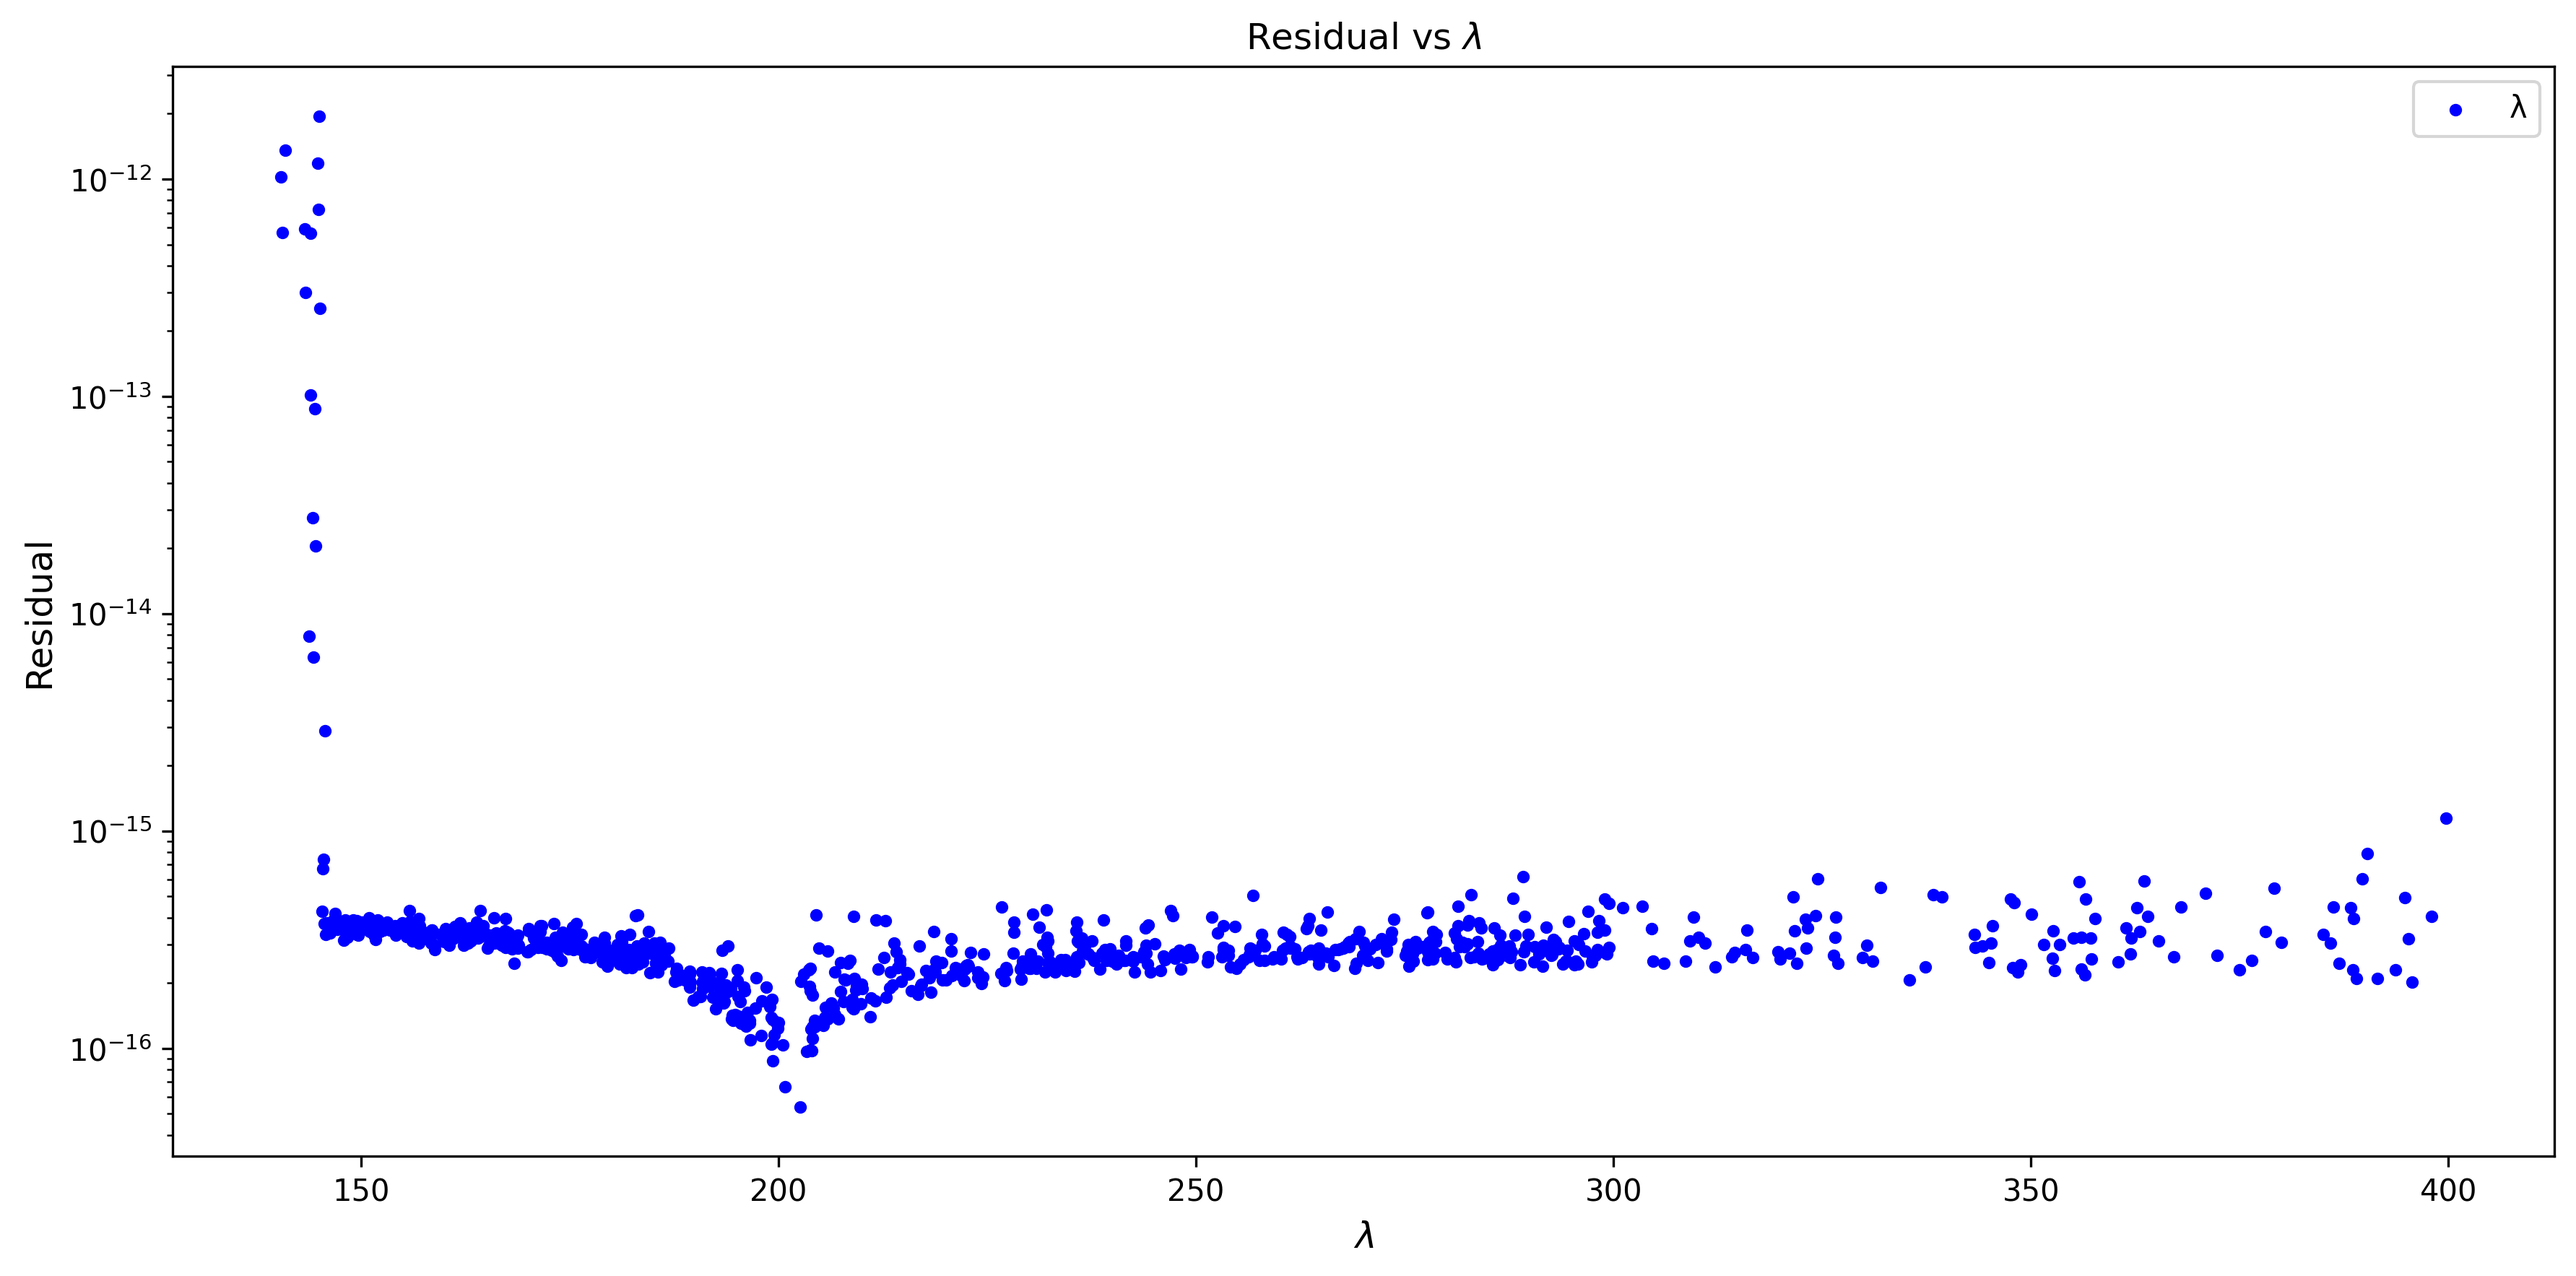
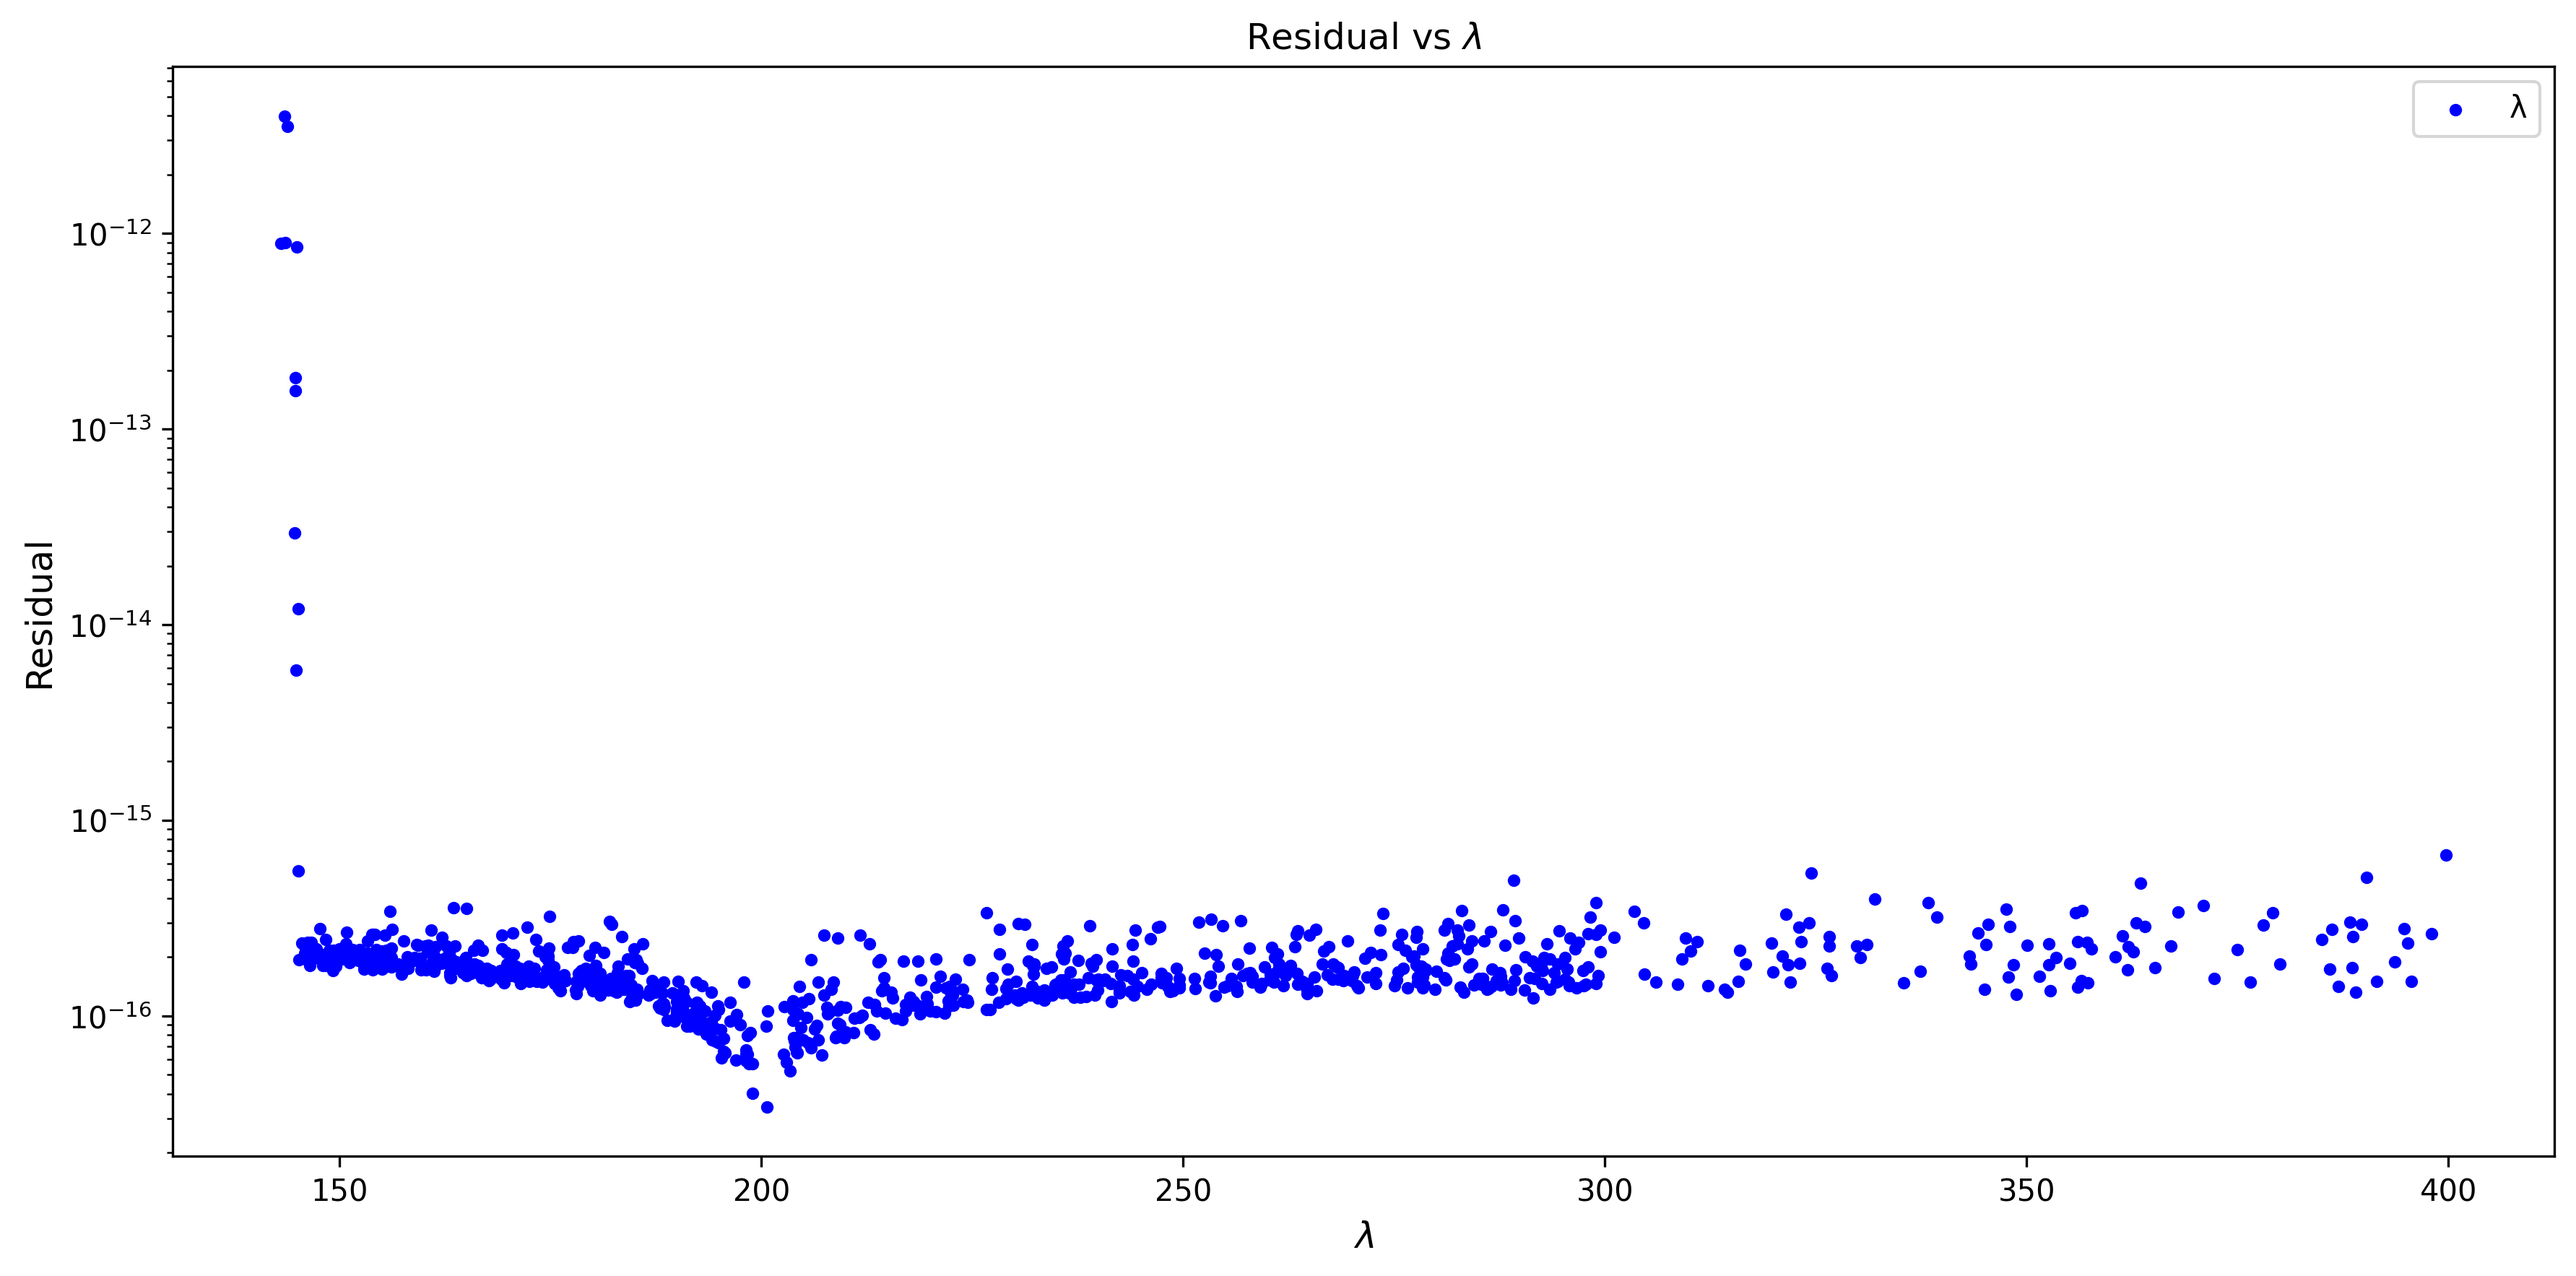
Added function to compute the best residuals

diff --git a/code/spectral_lanczos.py b/code/spectral_lanczos.py
@@ -9,7 +9,8 @@ import numpy as np
 import matplotlib.pyplot as plt
 import sys
 import numpy.linalg as la
-from scipy.linalg import lu_factor, lu_solve
+from scipy.linalg import lu_factor, lu_solve, qz, qr, eigh
+from scipy.linalg import solve, solve_triangular
 
 np.random.seed(256)
 
@@ -64,20 +65,16 @@ def spectral_lanczos(A, B, L, m, n, shift):
     q_prev = np.zeros(m)
     q_curr = b / np.linalg.norm(b)
 
-    # # Precompute the factorization of (A - shift * B)
-    # A_shift_B = A - shift * B
-    # lu = lu_factor(A_shift_B)
-
-    # spectral transformation matrix
-    C = L.T @ la.inv(A - shift*B) @ L
+    # Precompute the factorization of (A - shift * B)
+    A_shift_B = A - shift * B
+    lu = lu_factor(A_shift_B)
 
     # Perform Lanczos iterations
     for j in range(n + 1):
         Q_n[:, j] = q_curr
-        v = C @ q_curr
-        # u = L @ q_curr
-        # v = lu_solve(lu, u)
-        # v = L.T @ v
+        u = L @ q_curr
+        v = lu_solve(lu, u)
+        v = L.T @ v
         if j < n:
             # Compute and store alpha
             alpha = np.dot(q_curr, v)
@@ -112,30 +109,17 @@ def spectral_lanczos(A, B, L, m, n, shift):
     Q_n = Q_n[:, :n]
     x[n-1] = beta
 
-    return T_n, Q_n, q_curr, x, C
+    return T_n, Q_n, q_curr, x
 
-def compute_decomp_residual(A, B, L, T, Q, q, x, shift, C):
+def compute_decomp_residual(A, B, L, T, Q, q, x, shift):
     """ Compute the Lanczos decomposition residual """
-    # lu = lu_factor(A - shift*B)
-    # norm_matrix = la.norm(L.T @ lu_solve(lu, L))
-    # aq = L.T @ lu_solve(lu, L @ Q)
-    # qt = Q @ T
-    # qx = np.outer(q, x.T)
-    # decomp_res = la.norm(aq - qt - qx) / norm_matrix
-    num = la.norm(C@Q - Q@T - np.outer(q, x.T))
-    den = la.norm(C)
-    decomp_res = num/den
+    lu = lu_factor(A - shift*B)
+    norm_matrix = la.norm(L.T @ lu_solve(lu, L))
+    aq = L.T @ lu_solve(lu, L @ Q)
+    qt = Q @ T
+    qx = np.outer(q, x.T)
+    decomp_res = la.norm(aq - qt - qx) / norm_matrix
     return decomp_res
-
-def compute_eigenvalues(T, Q, L, sigma):
-    """ Compute the evalues and evectors of tridiagonal matrix T """ 
-    eigvals_Tn, eigvecs_Tn = np.linalg.eigh(T)
-    theta = eigvals_Tn
-    U = Q @ eigvecs_Tn
-    alphas = 1.0 + (theta *sigma)
-    betas = theta
-    V = la.solve(L.T, U)
-    return V, alphas, betas
 
 def compute_residuals(A, B, alphas, betas, V):
     """ Compute relative residuals for the Generalized problem """
@@ -147,8 +131,24 @@ def compute_residuals(A, B, alphas, betas, V):
             abs(betas[i]) * nrma + abs(alphas[i]) * nrmb) / la.norm(V[:,i])
     return residuals
 
-def compute_ritz_residuals(A, B, L, T, Q, shift, tol, C):
-    """ Compute relative residuals for the spectral transformation problem to obtain converged Ritz pairs based on tolerance """
+def compute_best_v_naive(A, B, alphas, betas):
+    """ Compute best residuals naive"""
+    nrmA = la.norm(A)
+    nrmB = la.norm(B)
+    res = np.zeros_like(alphas, dtype=float)
+    for i in range(len(alphas)):
+        alpha, beta = alphas[i], betas[i]
+        M = beta*A - alpha*B
+        sigma_min = la.svd(M, compute_uv=False, hermitian=False)[-1]
+        den = (abs(beta) * nrmA) + (abs(alpha) *nrmB)
+        res[i] = sigma_min / den if den !=0 else np.inf
+    return res
+
+def compute_ritz_residuals(A, B, L, T, Q, shift, tol):
+    """ 
+    Compute relative ritz residuals for the spectral transformation problem 
+    to obtain converged Ritz pairs based on tolerance
+    """
     eigvals_T, eigvecs_T = la.eigh(T)
     theta = eigvals_T
     U = Q @ eigvecs_T
@@ -156,35 +156,87 @@ def compute_ritz_residuals(A, B, L, T, Q, shift, tol, C):
     U_converged = []
     theta_converged = []
 
-    # # Precompute the factorization of (A - shift * B)
-    # A_shift_B = A - shift * B
-    # lu = lu_factor(A_shift_B)
+    # Precompute the factorization of (A - shift * B)
+    A_shift_B = A - shift * B
+    lu = lu_factor(A_shift_B)
     
-    # # Compute the norm of L.T @ (inv(A - shift * B) @ L)
-    # norm_matrix = la.norm(L.T @ lu_solve(lu, L))
-    norm_matrix = la.norm(C)
+    # Compute the norm of L.T @ (inv(A - shift * B) @ L)
+    norm_matrix = la.norm(L.T @ lu_solve(lu, L))
 
     for i in range(U.shape[1]):
-        # q = L @ U[:, i]
-        # v = lu_solve(lu, q)
-        # v = L.T @ v
-        v = C @ U[:, i]
+        q = L @ U[:, i]
+        v = lu_solve(lu, q)
+        v = L.T @ v
         num = la.norm(v - theta[i] * U[:, i])
         den = (norm_matrix + abs(theta[i])) * la.norm(U[:, i])
         residual = num / den if den != 0 else np.inf
+
         # Check if the residual is within the tolerance
         if residual <= tol:
             ritz_residuals.append(residual)
             U_converged.append(U[:, i])
             theta_converged.append(theta[i])
+
     ritz_residuals = np.array(ritz_residuals)
     U_converged = np.array(U_converged).T
     theta_converged = np.array(theta_converged)
     return U_converged, theta_converged, ritz_residuals
 
+def is_triu(T):
+    """Check if T is upper triangular """
+    return np.allclose(T, np.triu(T))
+
+def inverse_iteration(T, tol=1e-10, max_iter=1000):
+    """ Compute the smallest singular values using inverse iteration"""
+    m, n = T.shape
+    x = np.random.randn(n)
+    x = x/np.linalg.norm(x)
+    
+    for k in range(max_iter):
+        y = solve_triangular(T, x, trans='T', lower=True)
+        z = solve_triangular(T, y, lower=False)
+        z_norm = la.norm(z)
+        x_new = z/z_norm
+
+        if la.norm(x_new - x) < tol:
+            break
+        x = x_new
+    TTx = T.T @ (T@x)
+    sigma_min = 1/np.sqrt(la.norm(TTx))
+    return sigma_min, x
+
+def compute_best_v(A, B, alphas, betas, tol):
+    """ Compute the best residual using the smallest singular values """
+    res = np.zeros_like(alphas, dtype=float)
+    Ta, Tb, Q, Z = qz(A, B)
+    for i in range(len(alphas)):
+        T = betas[i]*Ta - alphas[i]*Tb
+        n = T.shape[0]
+
+        # Check if subdiagonal element is zero based on tol
+        for j in range(n-1):
+            if np.abs(T[j+1, j]) <= tol:
+                T[j+1, j] = 0
+            else:
+                continue
+            blk = T[j:j+1, j:j+1]
+            q, r = qr(blk)
+            T[j:j+1, j:n] = q.T @ T[j:j+1, j:n]
+        
+        if not is_triu(T):
+            print("T not upper triangular!")
+            sys.exit(1)
+        sigma_min, x = inverse_iteration(T, tol=tol)
+        den = np.abs(betas[i]) * la.norm(A) + np.abs(alphas[i]) * la.norm(B)
+        res[i] = sigma_min / den if den != 0 else np.inf
+
+    return res
 
 def compute_generalized_residuals(A, B, L, U_converged, theta_converged, shift):
-    """ Compute the residuals, generalized eigvalues and eigvectors for the converged Ritz pairs """
+    """
+    Compute the residuals, generalized eigvalues and eigvectors 
+    for the converged Ritz pairs
+    """
     # Check for converged ritz pairs
     if len(U_converged) != 0 and len(theta_converged) != 0:
         converged_alphas = 1.0 + (theta_converged * shift)
@@ -197,7 +249,7 @@ def compute_generalized_residuals(A, B, L, U_converged, theta_converged, shift):
         sys.exit(1)
 
 def plot_residuals(eigenvalues, residuals, save_path=None):
-    
+    """ Plot the residuals """
     fig, ax1 = plt.subplots(1, 1, figsize=(12, 6), sharey=True)
     
     # Plot for the residuals of computed eigenvalues

diff --git a/code/main.py b/code/main.py
@@ -2,11 +2,12 @@
 """ Main function """
 import numpy as np
 import scipy.io as sio
-import sys
+import sys, time
 from spectral_lanczos import *
 from scipy.linalg import eigh
 from scipy.sparse import diags
 if __name__ == "__main__":
+    start = time.time()
     m1, m2, m3 = 1500, 400, 100
     spread1 = (1, 199)
     spread2 = (200, 300)
@@ -19,24 +20,36 @@ if __name__ == "__main__":
     D = np.diag(D)
     A, B, L = generate_matrix(D, delta=1e-2)
     L = la.cholesky(B)
-    T, Q, q, x, C = spectral_lanczos(A, B, L, m=A.shape[0], n=n, shift=shift)
+    T, Q, q, x = spectral_lanczos(A, B, L, m=A.shape[0], n=n, shift=shift)
     
     # compute lanczos decomposition residual
-    decomp_res = compute_decomp_residual(A=A, B=B, L=L, T=T, Q=Q, q=q, x=x, shift=shift, C=C)
+    decomp_res = compute_decomp_residual(A=A, B=B, L=L, T=T, Q=Q, q=q, x=x, shift=shift)
 
     # Compute the converged ritz pairs and the (spectral transformation) relative ritz residuals
-    U_converged, theta_converged, ritz_residuals = compute_ritz_residuals(A, B, L, T, Q, shift, tol, C)
+    U_converged, theta_converged, ritz_residuals = compute_ritz_residuals(A, B, L, T, Q, shift, tol)
 
     # Compute the generalized eigenvectors and eigenvalues and the residuals for the converged ritz pairs
     gen_residuals, v, alpha, beta = compute_generalized_residuals(A, B, L, U_converged, theta_converged, shift)
+
+    # Compute the best relative residual
+    #res = compute_best_v(A, B, alpha, beta, tol=1e-10)
+
+    # Compute best relative res naive
+    res = compute_best_v_naive(A, B, alpha, beta)
     
     
     #print(f"Generalized Relative Residuals for converged ritz pair: \n{la.norm(gen_residuals, axis=0)}\n")
     #print(f"Relative Ritz Residuals for Spectral Transformation: \n{ritz_residuals}\n")
     print(f"Conditon number of A: {la.cond(A)}\n")
     print(f"Condition number of B: {la.cond(B)}\n")
-    print(f"Condition number of C(ST matrix): {la.cond(C)}\n")
     print(f"Decomposition residual: {decomp_res}\n")
 
     plot_residuals(eigenvalues=theta_converged, residuals=ritz_residuals, save_path="ritz_residuals")
     plot_residuals(eigenvalues=alpha/beta, residuals=la.norm(gen_residuals, axis=0), save_path="converged_ritz_residuals")
+    plot_residuals(eigenvalues=alpha/beta, residuals=res, save_path="best_residuals")
+    
+    end = time.time()
+    elapsed_time = end - start
+    minutes = int(elapsed_time // 60)
+    seconds = int(elapsed_time % 60)
+    print(f"Runtime: {minutes} minutes and {seconds} seconds")
